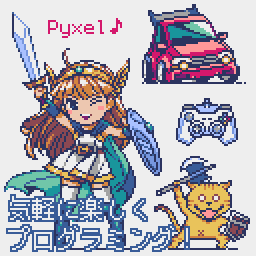
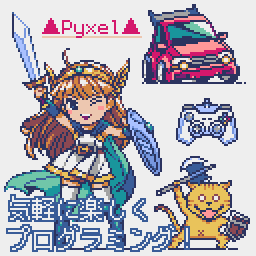
Changed Example 14 to use the native font rendering

Changed region(s): [[0.1562, 0.0625, 0.5625, 0.1562]]

diff --git a/python/pyxel/examples/13_bitmap_font.py b/python/pyxel/examples/13_bitmap_font.py
@@ -1,91 +1,32 @@
 import pyxel
 
 
-class BDFRenderer:
-    BORDER_DIRECTIONS = [
-        (-1, -1),
-        (0, -1),
-        (1, -1),
-        (-1, 0),
-        (1, 0),
-        (-1, 1),
-        (0, 1),
-        (1, 1),
-    ]
-
-    def __init__(self, bdf_filename):
-        self.font_bounding_box = [0, 0, 0, 0]
-        self.fonts = self._parse_bdf(bdf_filename)
-        self.screen_ptr = pyxel.screen.data_ptr()
-        self.screen_width = pyxel.width
-
-    def _parse_bdf(self, bdf_filename):
-        fonts = {}
-        code = None
-        bitmap = None
-        dwidth = 0
-        with open(bdf_filename, "r") as f:
-            for line in f:
-                if line.startswith("FONTBOUNDINGBOX"):
-                    self.font_bounding_box = list(map(int, line.split()[1:]))
-                elif line.startswith("ENCODING"):
-                    code = int(line.split()[1])
-                elif line.startswith("DWIDTH"):
-                    dwidth = int(line.split()[1])
-                elif line.startswith("BBX"):
-                    bbx = tuple(map(int, line.split()[1:]))
-                elif line.startswith("BITMAP"):
-                    bitmap = []
-                elif line.startswith("ENDCHAR"):
-                    fonts[code] = (
-                        dwidth,
-                        bbx,
-                        bitmap,
-                    )
-                    bitmap = None
-                elif bitmap is not None:
-                    hex_string = line.strip()
-                    bin_string = bin(int(hex_string, 16))[2:].zfill(len(hex_string) * 4)
-                    bitmap.append(int(bin_string[::-1], 2))
-        return fonts
-
-    def _draw_font(self, x, y, font, color):
-        dwidth, bbx, bitmap = font
-        screen_ptr = self.screen_ptr
-        screen_width = self.screen_width
-        x = x + self.font_bounding_box[2] + bbx[2]
-        y = y + self.font_bounding_box[1] + self.font_bounding_box[3] - bbx[1] - bbx[3]
-        for j in range(bbx[1]):
-            for i in range(bbx[0]):
-                if (bitmap[j] >> i) & 1:
-                    screen_ptr[(y + j) * screen_width + x + i] = color
-
-    def draw_text(self, x, y, text, color=7, border_color=None, spacing=0):
-        for char in text:
-            code = ord(char)
-            if code not in self.fonts:
-                continue
-            font = self.fonts[code]
-            if border_color is not None:
-                for dx, dy in self.BORDER_DIRECTIONS:
-                    self._draw_font(
-                        x + dx,
-                        y + dy,
-                        font,
-                        border_color,
-                    )
-            self._draw_font(x, y, font, color)
-            x += font[0] + spacing
+def draw_text_with_border(x, y, s, col, bcol, font):
+    for dx in range(-1, 2):
+        for dy in range(-1, 2):
+            if dx != 0 or dy != 0:
+                pyxel.text(
+                    x + dx,
+                    y + dy,
+                    s,
+                    bcol,
+                    font=font,
+                )
+    pyxel.text(x, y, s, col, font=font)
 
 
 pyxel.init(128, 128, title="Bitmap Font")
 pyxel.load("assets/sample.pyxres")
-umplus10 = BDFRenderer("assets/umplus_j10r.bdf")
-umplus12 = BDFRenderer("assets/umplus_j12r.bdf")
+umplus10 = pyxel.Font("assets/umplus_j10r.bdf")
+umplus12 = pyxel.Font("assets/umplus_j12r.bdf")
+# The Font class only supports BDF format fonts
 
 pyxel.cls(1)
 pyxel.blt(0, 0, 1, 0, 0, 128, 128)
-umplus10.draw_text(24, 8, "Pyxel♪", 8)
-umplus12.draw_text(4, 98, "気軽に楽しく", 7, 5)
-umplus12.draw_text(4, 113, "プログラミング！", 7, 5)
+s = "▲Pyxel▲"
+w = umplus10.text_width(s)
+pyxel.rect(21, 18, w, 1, 15)
+pyxel.text(21, 8, s, 8, font=umplus10)
+draw_text_with_border(4, 98, "気軽に楽しく", 7, 5, umplus12)
+draw_text_with_border(4, 113, "プログラミング！", 7, 5, umplus12)
 pyxel.show()

diff --git a/CHANGELOG.md b/CHANGELOG.md
@@ -3,6 +3,10 @@
 ## 2.2.1
 
 - Added the pyxel watch command description to the READMEs
+- Removed an unnecessary line in Example 14
+- Added the Font class
+- Added a font option to the text function
+- Changed Example 14 to use the native font rendering
 
 ## 2.2.0
 
